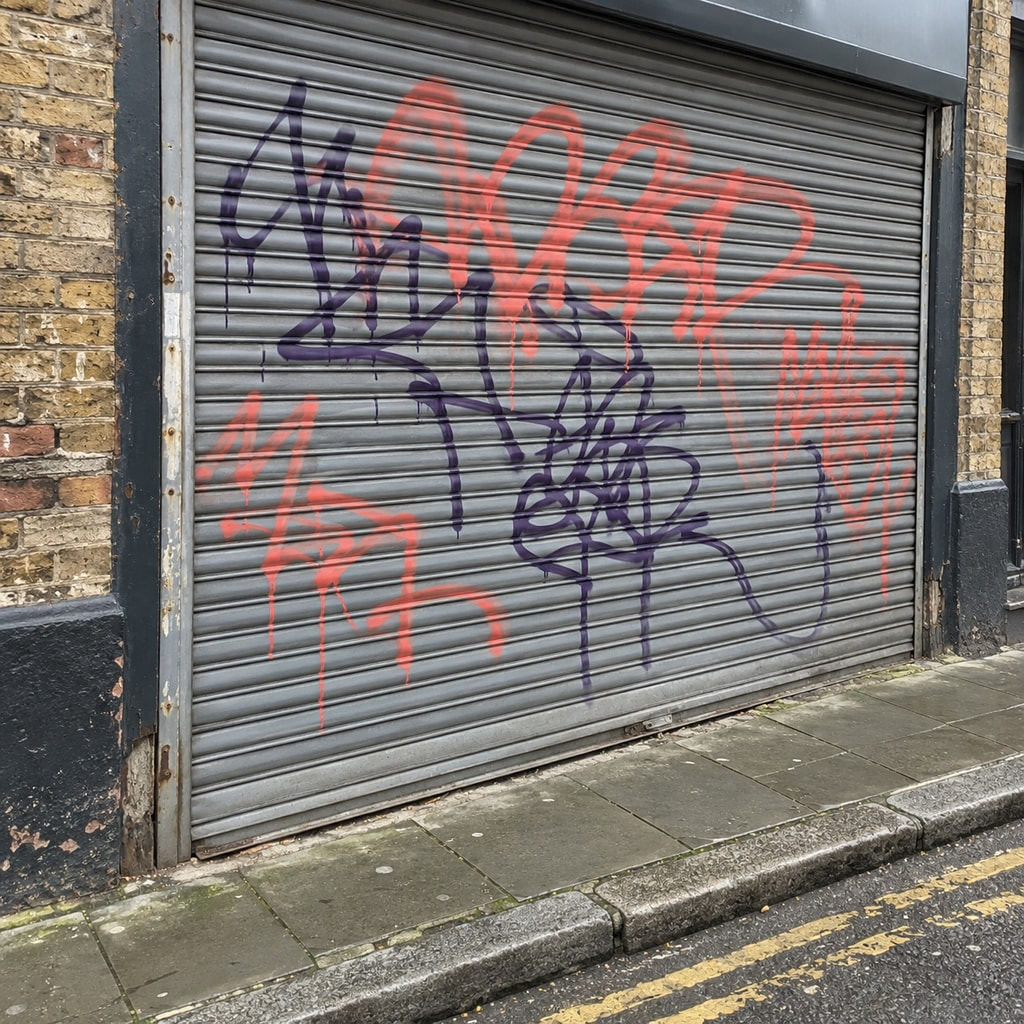
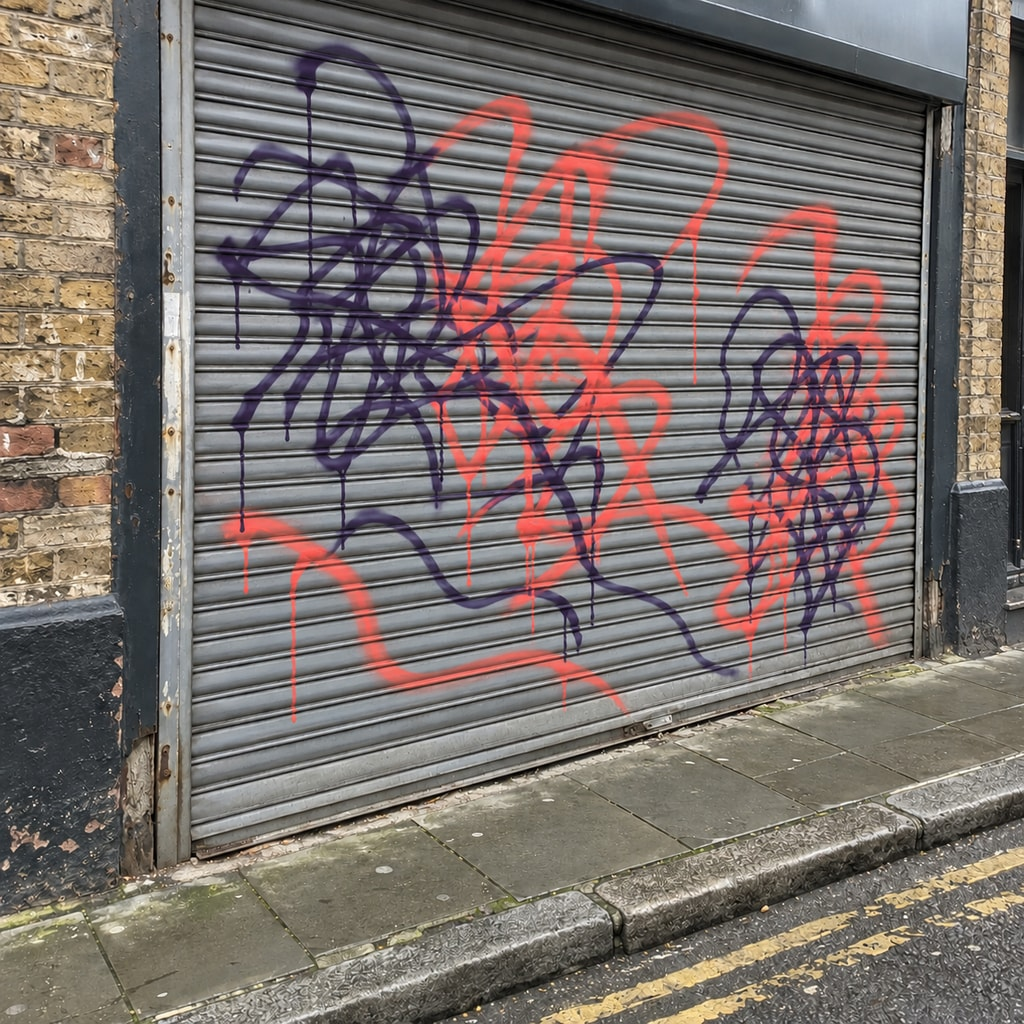
Fix z-fighting when zoomed out on the game map, add Astra demo photos

diff --git a/src/components/game/HackneyGame.tsx b/src/components/game/HackneyGame.tsx
@@ -118,7 +118,7 @@ const City = memo(function City({ built, data, theme }: { built: SceneGeometry; 
   }, [data.londonFields]);
 
   return <group>
-    <mesh rotation={[-Math.PI / 2, 0, 0]} position={[0, -0.5, 0]}>
+    <mesh rotation={[-Math.PI / 2, 0, 0]} position={[0, -2, 0]}>
       <planeGeometry args={[32000, 32000]} />
       <meshStandardMaterial color={palette.ground} roughness={1} />
     </mesh>
@@ -126,7 +126,7 @@ const City = memo(function City({ built, data, theme }: { built: SceneGeometry; 
     <mesh geometry={assets.roads}><meshBasicMaterial vertexColors transparent opacity={0.62} /></mesh>
     <mesh geometry={assets.water}><meshPhysicalMaterial vertexColors metalness={0.55} roughness={0.2} clearcoat={0.8} emissive="#07353b" emissiveIntensity={0.32} /></mesh>
     <mesh geometry={assets.fields}><meshStandardMaterial vertexColors emissive="#00b37f" emissiveIntensity={0.28} roughness={0.9} /></mesh>
-    <mesh position={[fieldsCenter[0], 1.2, fieldsCenter[1]]} rotation={[-Math.PI / 2, 0, 0]}>
+    <mesh position={[fieldsCenter[0], 6, fieldsCenter[1]]} rotation={[-Math.PI / 2, 0, 0]}>
       <planeGeometry args={[720, 1000]} />
       <meshBasicMaterial map={assets.glow} color="#00b884" transparent opacity={0.3} blending={AdditiveBlending} depthWrite={false} toneMapped={false} />
     </mesh>
@@ -209,7 +209,7 @@ export default function HackneyGame({ reports = NO_REPORTS, focus = null, onMapR
 
   return <div style={{ position: "absolute", inset: 0, background: PALETTE[theme].bg, transition: "background 400ms" }}>
     {loaded ? <SceneBoundary>
-      <Canvas camera={{ position: [3100, 5800, 5300], fov: 42, near: 2, far: 30000 }} dpr={[1, 1.25]} gl={{ antialias: true, alpha: false, powerPreference: "high-performance" }} fallback={<div className="game-load-state" role="alert">This map needs a browser with WebGL enabled.</div>}>
+      <Canvas camera={{ position: [3100, 5800, 5300], fov: 42, near: 10, far: 30000 }} dpr={[1, 1.25]} gl={{ antialias: true, alpha: false, powerPreference: "high-performance", logarithmicDepthBuffer: true }} fallback={<div className="game-load-state" role="alert">This map needs a browser with WebGL enabled.</div>}>
         <Scene data={loaded.data} built={loaded.built} reports={reports} focus={focus} reducedMotion={reducedMotion} theme={theme} />
       </Canvas>
     </SceneBoundary> : <div className="game-load-state" role={error ? "alert" : "status"}>

diff --git a/src/components/game/geometry.ts b/src/components/game/geometry.ts
@@ -2,6 +2,8 @@ import { Color, ShapeUtils, Vector2 } from "three";
 import type { GameMapData } from "./map-data";
 
 export type MeshData = { position: Float32Array; normal: Float32Array; color: Float32Array };
+// Flat layers are spaced a few units apart (ground < parks < roads < water < London Fields)
+// so they don't z-fight when the camera is far away.
 export type SceneGeometry = {
   buildings: MeshData;
   outlines: Float32Array;
@@ -71,19 +73,19 @@ export function buildSceneGeometry(data: GameMapData): SceneGeometry {
     });
   });
   const roadColor = new Color("#2d535e");
-  for (const [width, line] of data.roads) ribbon(roads, line, width, 0.65, roadColor);
+  for (const [width, line] of data.roads) ribbon(roads, line, width, 2.6, roadColor);
   const waterColor = new Color("#0b5661");
   for (const [width, coordinates] of data.water) {
-    if (width === 0) surface(water, coordinates, 0.9, waterColor);
-    else ribbon(water, coordinates, width, 0.9, waterColor);
+    if (width === 0) surface(water, coordinates, 3.6, waterColor);
+    else ribbon(water, coordinates, width, 3.6, waterColor);
   }
-  for (const park of data.parks) surface(parks, park, 0.4, new Color("#00664f"));
+  for (const park of data.parks) surface(parks, park, 1.4, new Color("#00664f"));
   if (data.londonFields.length >= 6) {
-    surface(fields, data.londonFields, 1, new Color("#00664f"));
+    surface(fields, data.londonFields, 4.4, new Color("#00664f"));
     const p = data.londonFields;
     for (let i = 0; i < p.length; i += 2) {
       const j = (i + 2) % p.length;
-      fieldBorder.push(p[i],1.5,-p[i+1],p[j],1.5,-p[j+1]);
+      fieldBorder.push(p[i],5.2,-p[i+1],p[j],5.2,-p[j+1]);
     }
   }
   return { buildings: finish(buildings), outlines: new Float32Array(outlines), roads: finish(roads), water: finish(water), parks: finish(parks), fields: finish(fields), fieldBorder: new Float32Array(fieldBorder) };

diff --git a/src/components/game/ReportBeacons.tsx b/src/components/game/ReportBeacons.tsx
@@ -40,7 +40,7 @@ export function ReportBeacons({ reports, origin, glow, reducedMotion }: { report
       dummy.scale.setScalar(85 + Math.sin(t + i) * 5);
       dummy.updateMatrix();
       halos.current!.setMatrixAt(i, dummy.matrix);
-      dummy.position.y = 1.8;
+      dummy.position.y = 6;
       dummy.rotation.set(-Math.PI / 2, 0, 0);
       dummy.scale.setScalar(23);
       dummy.updateMatrix();
